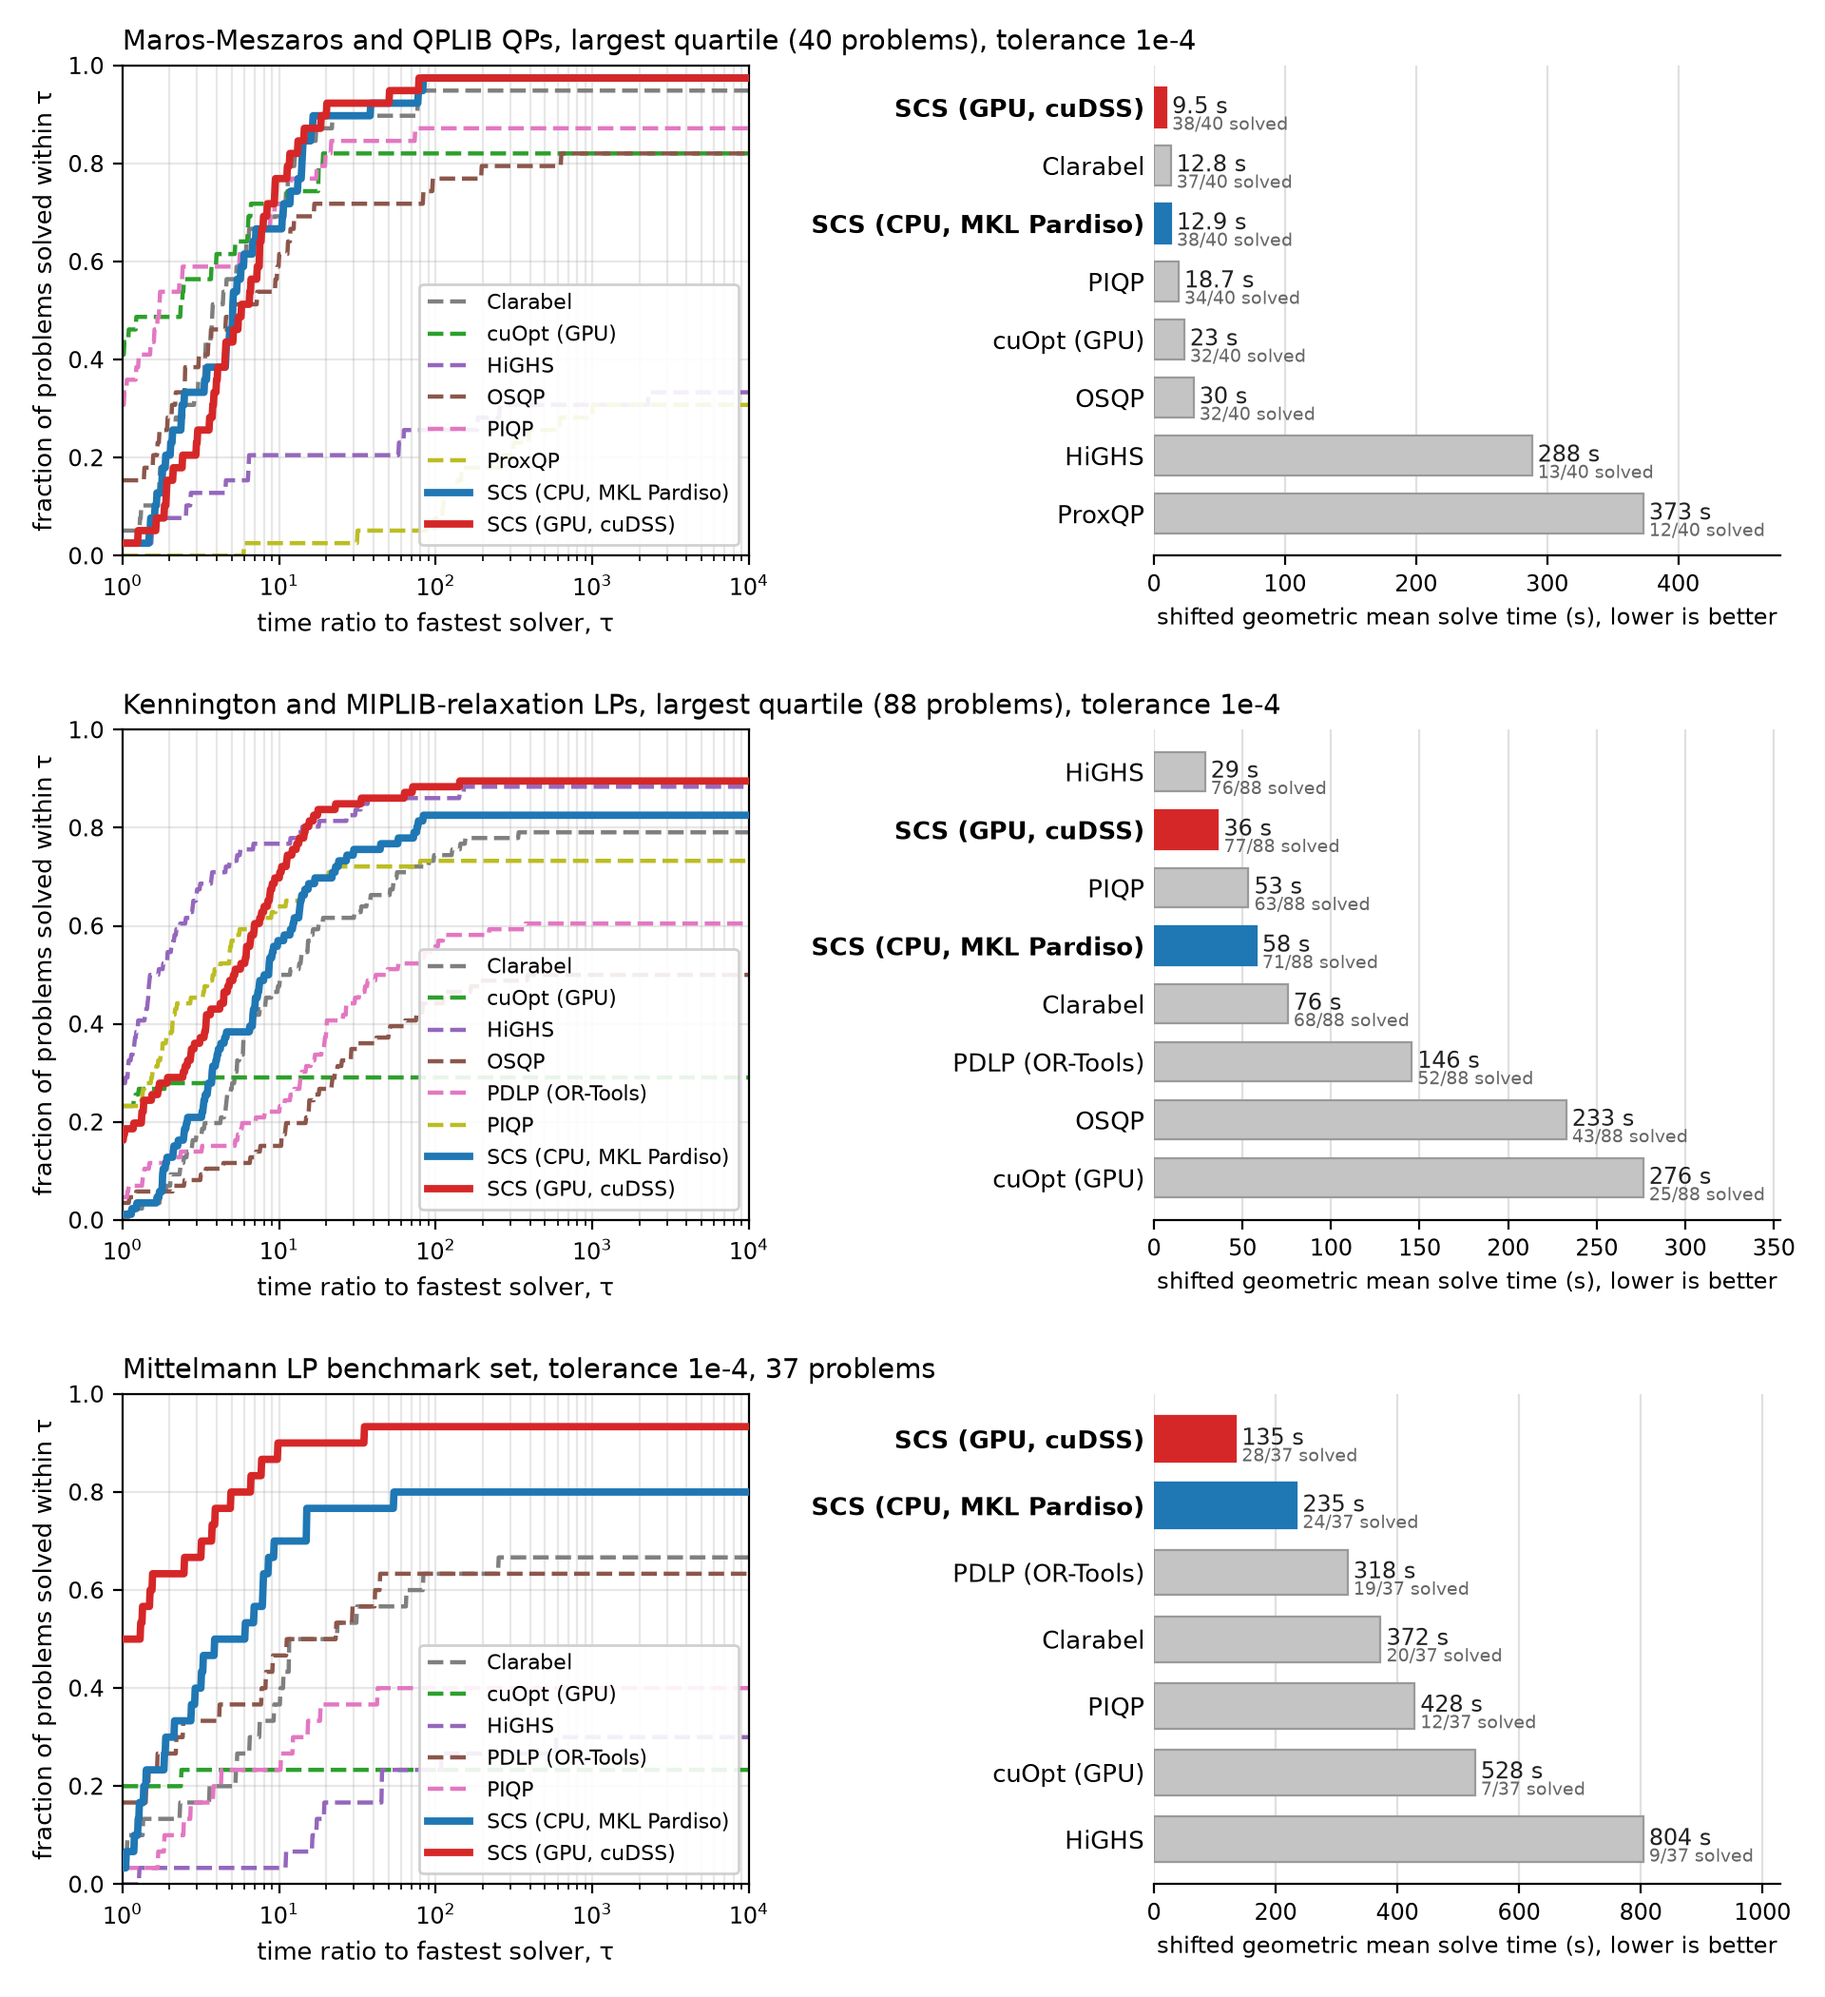
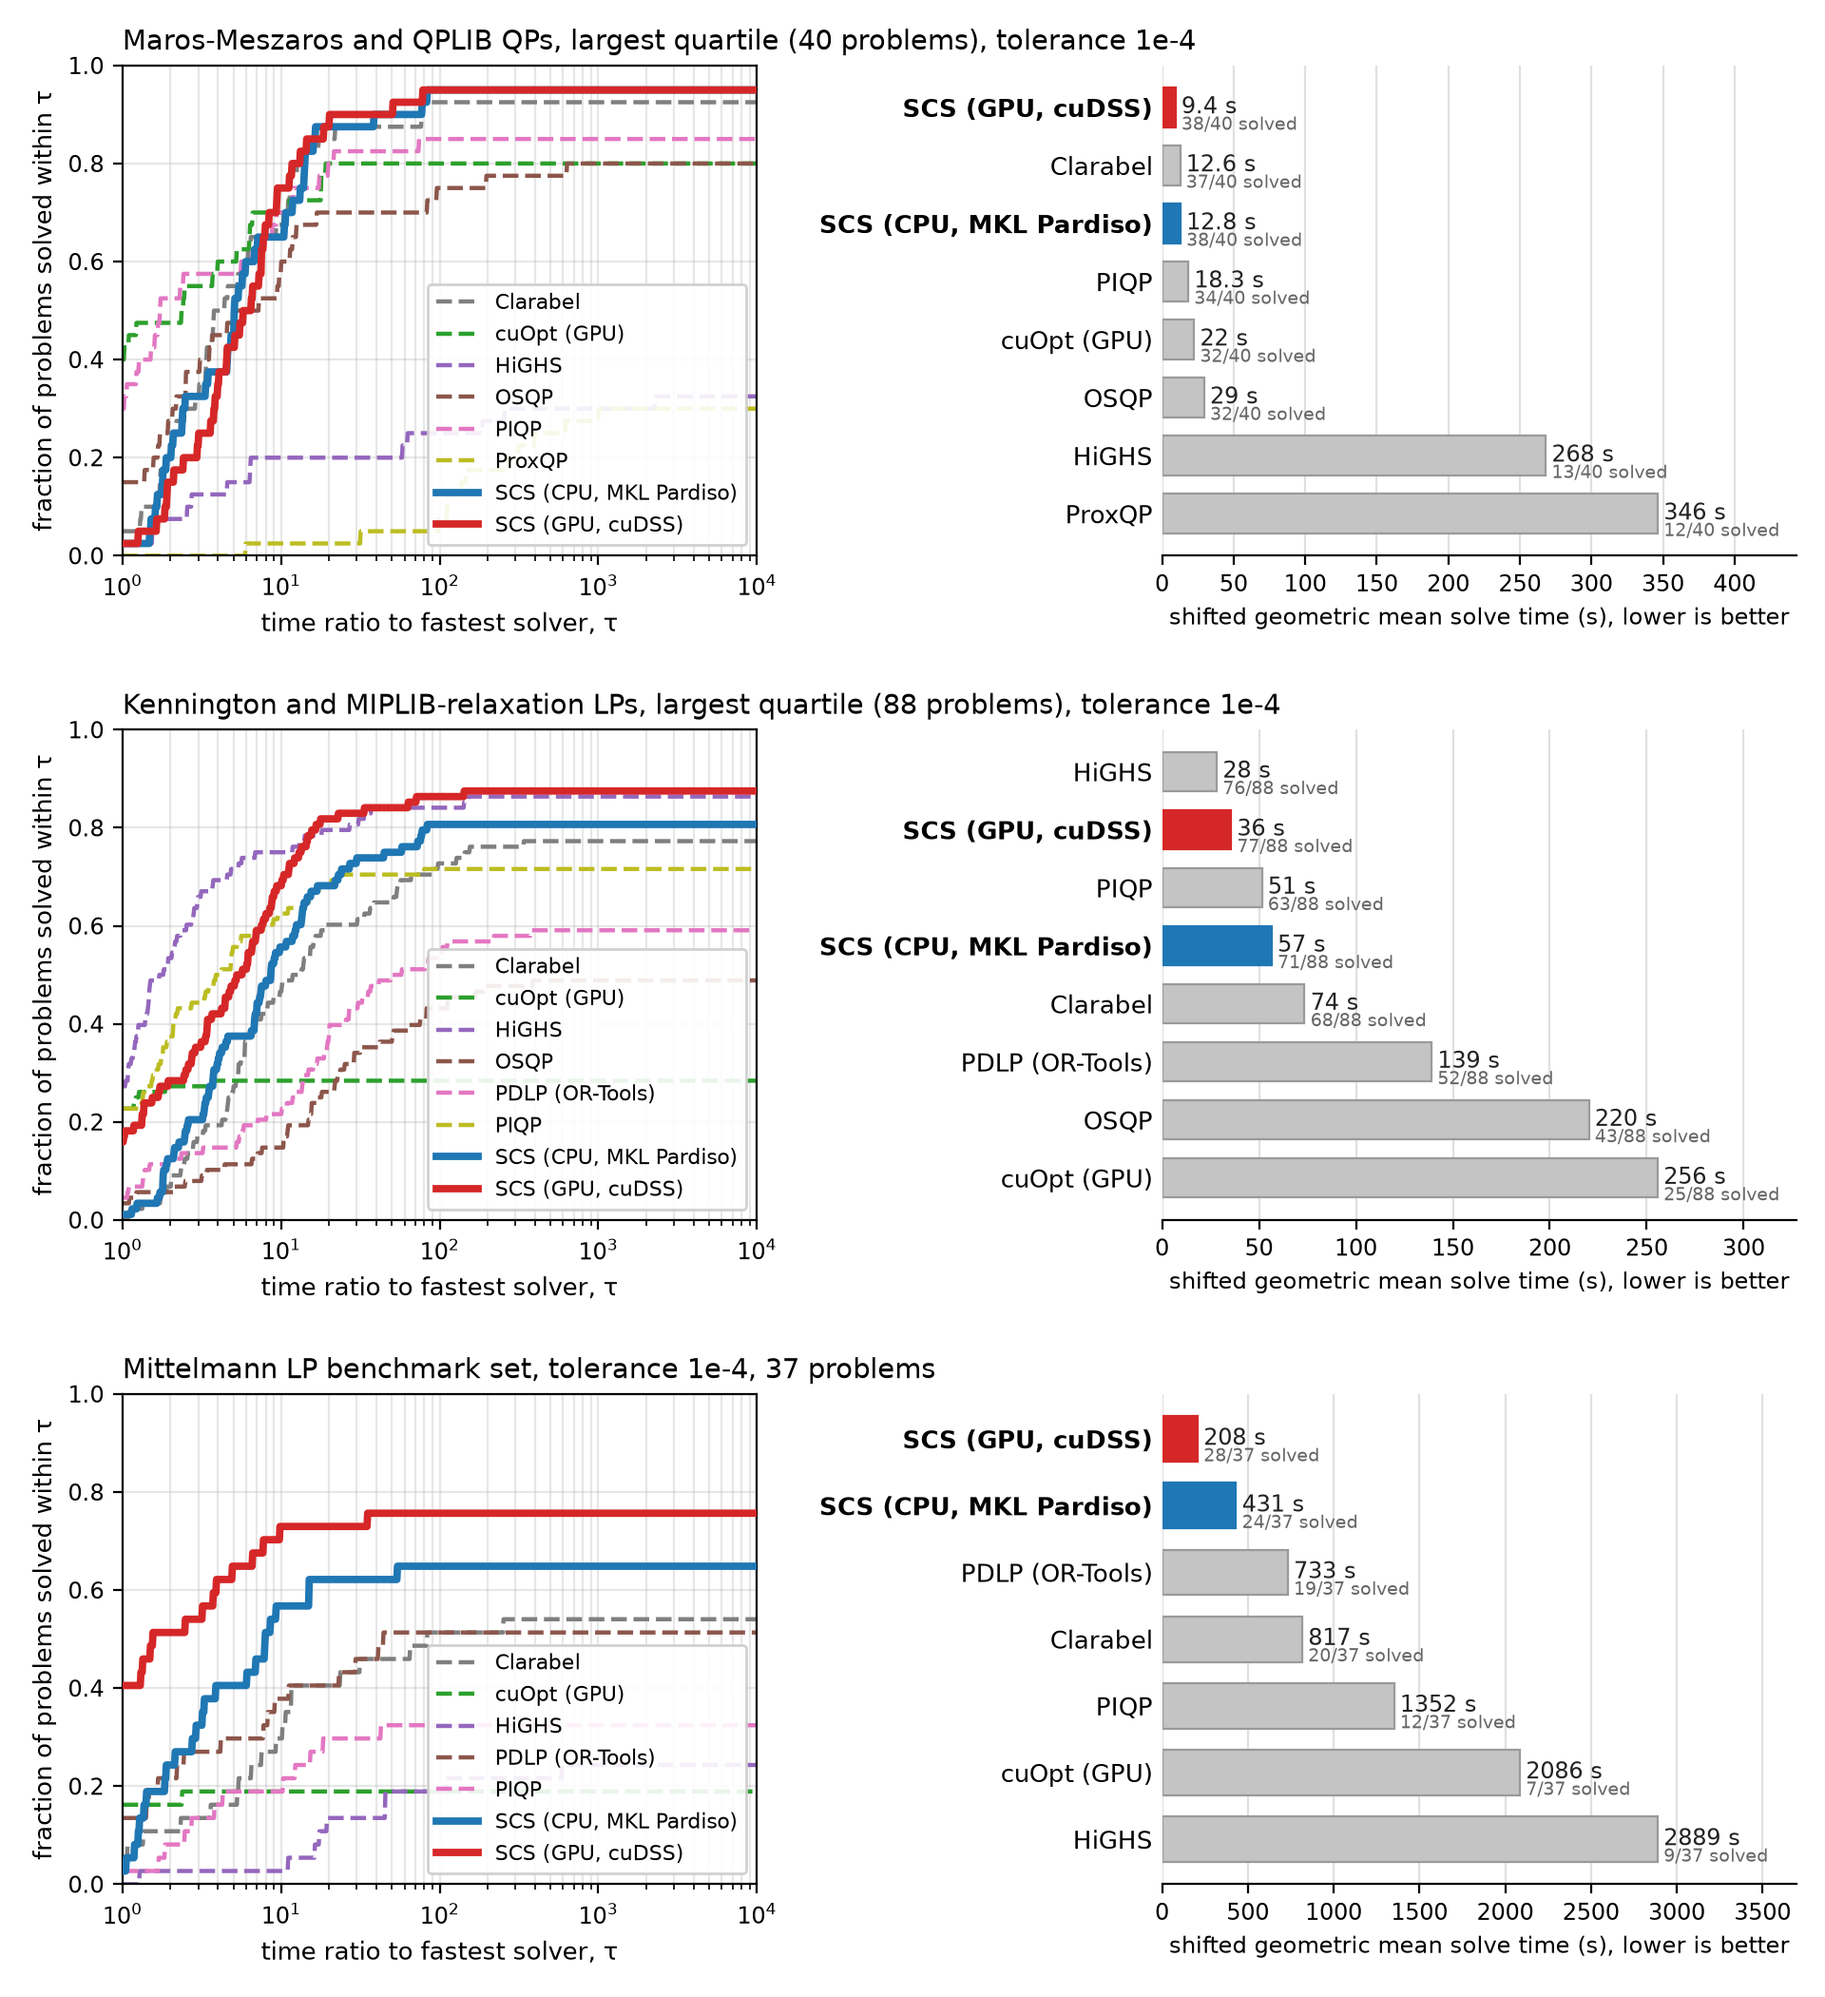
benchmarks: profile-and-bars pair for every plot, Mittelmann above SDP, 3x-limit failure penalty
Every figure is now a single-row profile | geometric-mean pair at page
width, including the full QP and LP sets. The Mittelmann section moves
above the SDPs and gets the same plots (1e-4 and 1e-5). The SDP text
leads with the success rate. Failures are charged three times the time
limit in the geometric means and profiles use the full problem set as
the denominator; both stated in the Timing paragraph.

diff --git a/docs/src/benchmarks/index.rst b/docs/src/benchmarks/index.rst
@@ -227,11 +227,14 @@ solver through its own time-limit setting; since wall time also includes
 setup and reading, a solve counts only if it finished within the limit plus a
 60 s grace, the same for every solver, and the harness killed the worker at
 that point regardless of what the solver reported. A
-performance profile shows, for each solver, the fraction of problems solved
-within a factor :math:`\tau` of the fastest solver on that problem; failures
-never count as solved. The shifted geometric mean uses a shift of 10 s and
-charges each failure 1000 s. Times below 10 ms are floored at 10 ms before
-computing ratios.
+performance profile shows, for each solver, the fraction of all problems in
+the set solved within a factor :math:`\tau` of the fastest solver on that
+problem; failures never count as solved, so the height of a curve at the
+right edge is the solver's success rate. The shifted geometric mean uses a
+shift of 10 s and charges each failure three times the time limit (900 s for
+QP and LP, 2700 s for SDP, 5400 s for the Mittelmann set), so a failure
+always costs more than any successful solve. Times below 10 ms are floored at
+10 ms before computing ratios.
 
 **Hardware.** All CPU solvers ran in identical 4-core Linux x86-64 containers
 (Modal), on which the ``scs`` wheel selects the MKL Pardiso linear system
@@ -273,8 +276,8 @@ solutions. Over all 157 problems the interior-point solvers are faster on the
 small instances, where an SCS solve is dominated by fixed setup cost, but SCS
 solves nearly as many problems as they do.
 
-.. figure:: ../files/bench/qp_1e-4_profile.png
-   :width: 90 %
+.. figure:: ../files/bench/qp_1e-4_pair.png
+   :width: 100 %
    :align: center
 
 At the tighter :math:`10^{-6}` tolerance the interior-point solvers pull ahead,
@@ -282,8 +285,8 @@ as expected for a first-order method, but SCS still verifies more solutions
 than every solver other than PIQP and Clarabel, and remains the fastest
 first-order solver by a wide margin.
 
-.. figure:: ../files/bench/qp_1e-6_profile_largest.png
-   :width: 90 %
+.. figure:: ../files/bench/qp_1e-6_pair_largest.png
+   :width: 100 %
    :align: center
 
 .. list-table:: QP: verified solves and shifted geometric mean time (s); all 157 problems / largest quartile (40)
@@ -383,14 +386,16 @@ with cuDSS verifies the most solutions of any solver and is second only to
 HiGHS (dual simplex) in geometric mean time, ahead of the interior-point
 solvers PIQP and Clarabel. Both PDLP implementations, which
 are first-order LP methods, trail SCS by a wide margin under independent
-verification (see the notes below).
+verification (see the notes below). The first figure is the full 349-problem
+set at :math:`10^{-4}`; the second is the largest quarter at
+:math:`10^{-6}`.
 
-.. figure:: ../files/bench/lp_1e-4_profile.png
-   :width: 90 %
+.. figure:: ../files/bench/lp_1e-4_pair.png
+   :width: 100 %
    :align: center
 
-.. figure:: ../files/bench/lp_1e-6_profile_largest.png
-   :width: 90 %
+.. figure:: ../files/bench/lp_1e-6_pair_largest.png
+   :width: 100 %
    :align: center
 
 .. list-table:: LP: verified solves and shifted geometric mean time (s); all 349 problems / largest quartile (88)
@@ -479,32 +484,110 @@ verification (see the notes below).
      - 20
      - 350.5
 
+.. _bench_lpbig:
+
+Large linear programs: the Mittelmann set
+-----------------------------------------
+
+The LP test sets above are dominated by small and medium instances, so we also
+ran the 37 problems of `Hans Mittelmann's LP benchmark set
+<https://plato.asu.edu/ftp/lptestset/>`_, the standard collection of large,
+hard LPs: between 100,000 and 126 million nonzeros, with several instances of
+10 to 40 million variables. Every solver ran at tolerance :math:`10^{-4}`
+with an 1800 s limit in 64 GB containers (4 cores, or an A100 80GB for the two
+GPU solvers). Mittelmann's own runs allow several hours per instance and use
+faster machines, so the simplex and interior-point codes time out here far
+more often than they do in his tables; the point of this set for us is the
+size of the problems, not a re-run of his benchmark.
+
+This is where the cuDSS backend pays off. SCS on the GPU verifies more
+solutions than any other solver and has by far the lowest geometric mean
+time, and SCS on the CPU is second. The two other first-order codes, PDLP and
+cuOpt, are the natural comparison: OR-Tools PDLP verifies about two thirds as many
+solutions as SCS with cuDSS, and cuOpt's PDLP, although it reports almost
+every instance optimal, mostly fails the independent residual check (see the
+notes below).
+
+.. figure:: ../files/bench/lpbig_1e-4_pair.png
+   :width: 100 %
+   :align: center
+
+The ordering is unchanged at the tighter :math:`10^{-5}` setting, at which
+every first-order solver was also run on this set:
+
+.. figure:: ../files/bench/lpbig_1e-5_pair.png
+   :width: 100 %
+   :align: center
+
+.. list-table:: Mittelmann LP set: verified solves out of 37 and shifted geometric mean time (s), tolerance 1e-4, 1800 s limit
+   :header-rows: 1
+   :widths: 40 20 20
+
+   * - Solver
+     - verified solves
+     - geometric mean (s)
+   * - SCS (GPU, cuDSS)
+     - 28
+     - 135
+   * - SCS (CPU, MKL Pardiso)
+     - 24
+     - 235
+   * - PDLP (OR-Tools)
+     - 19
+     - 318
+   * - Clarabel
+     - 20
+     - 372
+   * - PIQP
+     - 12
+     - 428
+   * - cuOpt (GPU)
+     - 7
+     - 528
+   * - HiGHS
+     - 9
+     - 804
+
+Set-specific exclusions: Clarabel could not attempt ``L1_sixm250obs`` and
+``L1_sixm1000obs`` within 64 GB (counted as failures); OR-Tools PDLP cannot
+load ``Dual2_5000`` and ``dlr2`` because the model exceeds the 2 GB protobuf
+limit (counted as failures); SCS with cuDSS ran out of GPU memory on
+``thk_48`` (counted as a failure). Four instances (``bdry2``, ``Linf_520c``
+and the two ``L1_sixm`` problems) are distributed in Netlib's compressed EMPS
+format and were decoded with ``emps`` before use.
+
 .. _bench_sdp:
 
 Semidefinite programs
 ---------------------
 
-98 problems: SDPLIB and the Mittelmann SDP set. This is the family where an
-interior-point method is usually the right choice, and the plots say so: SDPA
-and CVXOPT solve the small, ill-conditioned ``control``, ``truss``, ``arch``
-and ``gpp`` instances in seconds where SCS needs hundreds of thousands of
-iterations and often hits the 900 s limit. SCS is the fastest solver on the
-large sparse combinatorial relaxations (``theta``, ``mcp``, ``maxG``, ``qpG``
-and ``equalG``), where the interior-point methods either run out of time or,
-in Clarabel's case, cannot form the dense scaling block at all. The GPU does
-not help on SDPs: the time is spent in the eigendecompositions of the cone
-projection, not in the linear system.
+98 problems: SDPLIB and the Mittelmann SDP set. Two things are true at once
+here and the plots show both. SCS verifies more SDPs than any other solver,
+76 of 98 on the CPU, because it is the only solver that copes with the
+large sparse combinatorial relaxations (``theta``, ``mcp``, ``maxG``,
+``qpG`` and ``equalG``, where the interior-point methods run out of time or
+memory). But on the small, ill-conditioned ``control``, ``truss``, ``arch``
+and ``gpp`` instances an interior-point method is the right tool: SDPA and
+CVXOPT finish in seconds where SCS needs hundreds of thousands of iterations
+and often runs to the 900 s limit, so SDPA and CVXOPT have the better
+geometric mean time despite solving fewer problems. The GPU does not help on
+SDPs: the time goes into the eigendecompositions of the cone projection, not
+the linear system.
 
 If your problem has a few large PSD blocks and moderate accuracy is enough,
 SCS is a good choice; if it has many small blocks or is badly conditioned, use
 an interior-point solver.
 
-.. figure:: ../files/bench/sdp_1e-4_profile.png
-   :width: 90 %
+.. figure:: ../files/bench/sdp_1e-4_pair.png
+   :width: 100 %
    :align: center
 
-.. figure:: ../files/bench/sdp_1e-4_geomean.png
-   :width: 90 %
+At :math:`10^{-6}` on the largest quarter of the set the picture is the same:
+SCS still verifies the most solutions, and the interior-point solvers are
+faster on the instances they do solve.
+
+.. figure:: ../files/bench/sdp_1e-6_pair_largest.png
+   :width: 100 %
    :align: center
 
 .. list-table:: SDP: verified solves and shifted geometric mean time (s); all 98 problems / largest quartile (28)
@@ -565,67 +648,6 @@ an interior-point solver.
      - 1000.0
      - 0
      - 1000.0
-
-.. _bench_lpbig:
-
-Large linear programs: the Mittelmann set
------------------------------------------
-
-The LP test sets above are dominated by small and medium instances, so we also
-ran (see the bottom row of the headline figure) the 37 problems of `Hans Mittelmann's LP benchmark set
-<https://plato.asu.edu/ftp/lptestset/>`_, the standard collection of large,
-hard LPs: between 100,000 and 126 million nonzeros, with several instances of
-10 to 40 million variables. Every solver ran at tolerance :math:`10^{-4}`
-with an 1800 s limit in 64 GB containers (4 cores, or an A100 80GB for the two
-GPU solvers). Mittelmann's own runs allow several hours per instance and use
-faster machines, so the simplex and interior-point codes time out here far
-more often than they do in his tables; the point of this set for us is the
-size of the problems, not a re-run of his benchmark.
-
-This is where the cuDSS backend pays off. SCS on the GPU verifies more
-solutions than any other solver and has by far the lowest geometric mean
-time, and SCS on the CPU is second. The two other first-order codes, PDLP and
-cuOpt, are the natural comparison: OR-Tools PDLP verifies about two thirds as many
-solutions as SCS with cuDSS, and cuOpt's PDLP, although it reports almost
-every instance optimal, mostly fails the independent residual check (see the
-notes below).
-
-.. list-table:: Mittelmann LP set: verified solves out of 37 and shifted geometric mean time (s), tolerance 1e-4, 1800 s limit
-   :header-rows: 1
-   :widths: 40 20 20
-
-   * - Solver
-     - verified solves
-     - geometric mean (s)
-   * - SCS (GPU, cuDSS)
-     - 28
-     - 135
-   * - SCS (CPU, MKL Pardiso)
-     - 24
-     - 235
-   * - PDLP (OR-Tools)
-     - 19
-     - 318
-   * - Clarabel
-     - 20
-     - 372
-   * - PIQP
-     - 12
-     - 428
-   * - cuOpt (GPU)
-     - 7
-     - 528
-   * - HiGHS
-     - 9
-     - 804
-
-Set-specific exclusions: Clarabel could not attempt ``L1_sixm250obs`` and
-``L1_sixm1000obs`` within 64 GB (counted as failures); OR-Tools PDLP cannot
-load ``Dual2_5000`` and ``dlr2`` because the model exceeds the 2 GB protobuf
-limit (counted as failures); SCS with cuDSS ran out of GPU memory on
-``thk_48`` (counted as a failure). Four instances (``bdry2``, ``Linf_520c``
-and the two ``L1_sixm`` problems) are distributed in Netlib's compressed EMPS
-format and were decoded with ``emps`` before use.
 
 .. _bench_sens:
 
